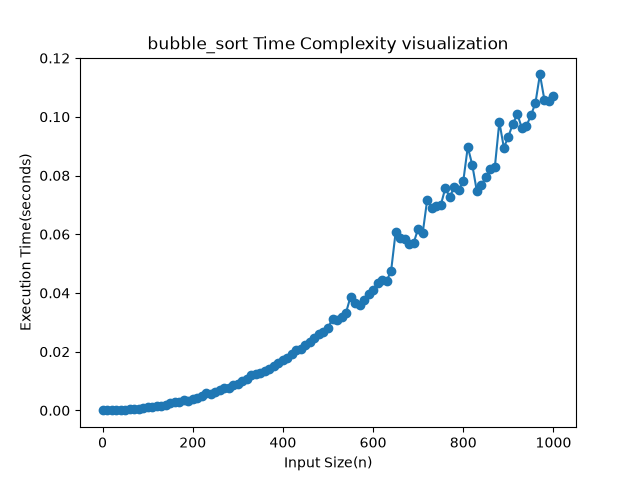
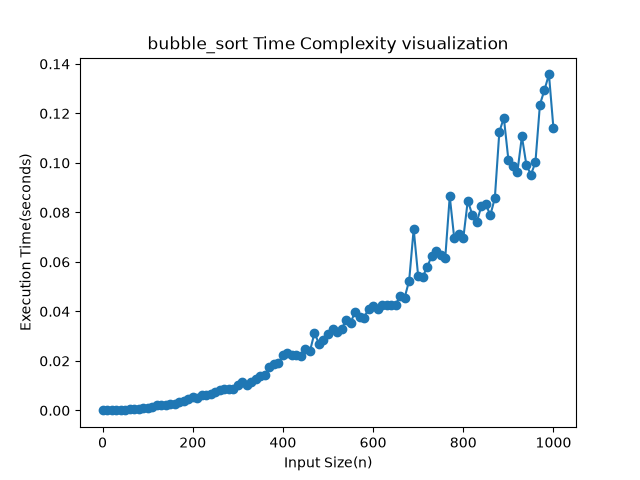
Implement authorization in save endpoint and add MySQL integration for analysis table

diff --git a/algo_test.py b/algo_test.py
@@ -15,7 +15,7 @@ import uuid
 from sqlalchemy import Table, Column, String, Integer
 from sqlalchemy import MetaData, select, insert, update, delete, func
 
-
+TOKEN = "DEMO"
 engine = sqlalchemy.create_engine('sqlite:///algodatabase.db', echo=True)
 
 metadata = MetaData()
@@ -312,16 +312,26 @@ def analyze():
 
 @app.route('/save', methods=['POST'])
 def save():
+
+    auth = request.headers.get("Authorization", "")
+    token = auth[len("Bearer "):].strip() if auth.startswith("Bearer ") else None
+
+    if token != TOKEN:
+        return jsonify ({
+            "error": "I do not know you"
+        }), 401
+    
     data = request.get_json()
     algo = data.get('algorithm')
     step = data.get('step')
     n_max = data.get('n_max')
+    
 
-
+        
     if algo is None or step is None or n_max is None:
         return jsonify({
-         "Error": "missing fields",
-         "required": [
+        "Error": "missing fields",
+        "required": [
                 "algorithm",
                 "step",
                 "n_max"

diff --git a/python_mysql.py b/python_mysql.py
@@ -1,0 +1,24 @@
+import sqlalchemy
+from sqlalchemy import String, Column, Integer, BLOB
+from sqlalchemy import text
+from sqlalchemy import create_engine
+from sqlalchemy.orm import DeclarativeBase
+import os
+
+
+password = os.getenv("AIVEN_PASSWORD")
+user = os.getenv("AIVEN_USER")
+engine = sqlalchemy.create_engine("mysql+pymysql://avnadmin:password@user:15800/Analytics")
+
+class Base(DeclarativeBase):
+    pass
+
+class Analysis(Base):
+    __tablename__ = "analysis"
+    id = Column(Integer, primary_key=True, autoincrement=True)
+    algo = Column(String(255))
+    n_max = Column(Integer)
+    steps = Column(Integer)
+    image = Column(BLOB)
+
+Base.metadata.create_all(engine)
